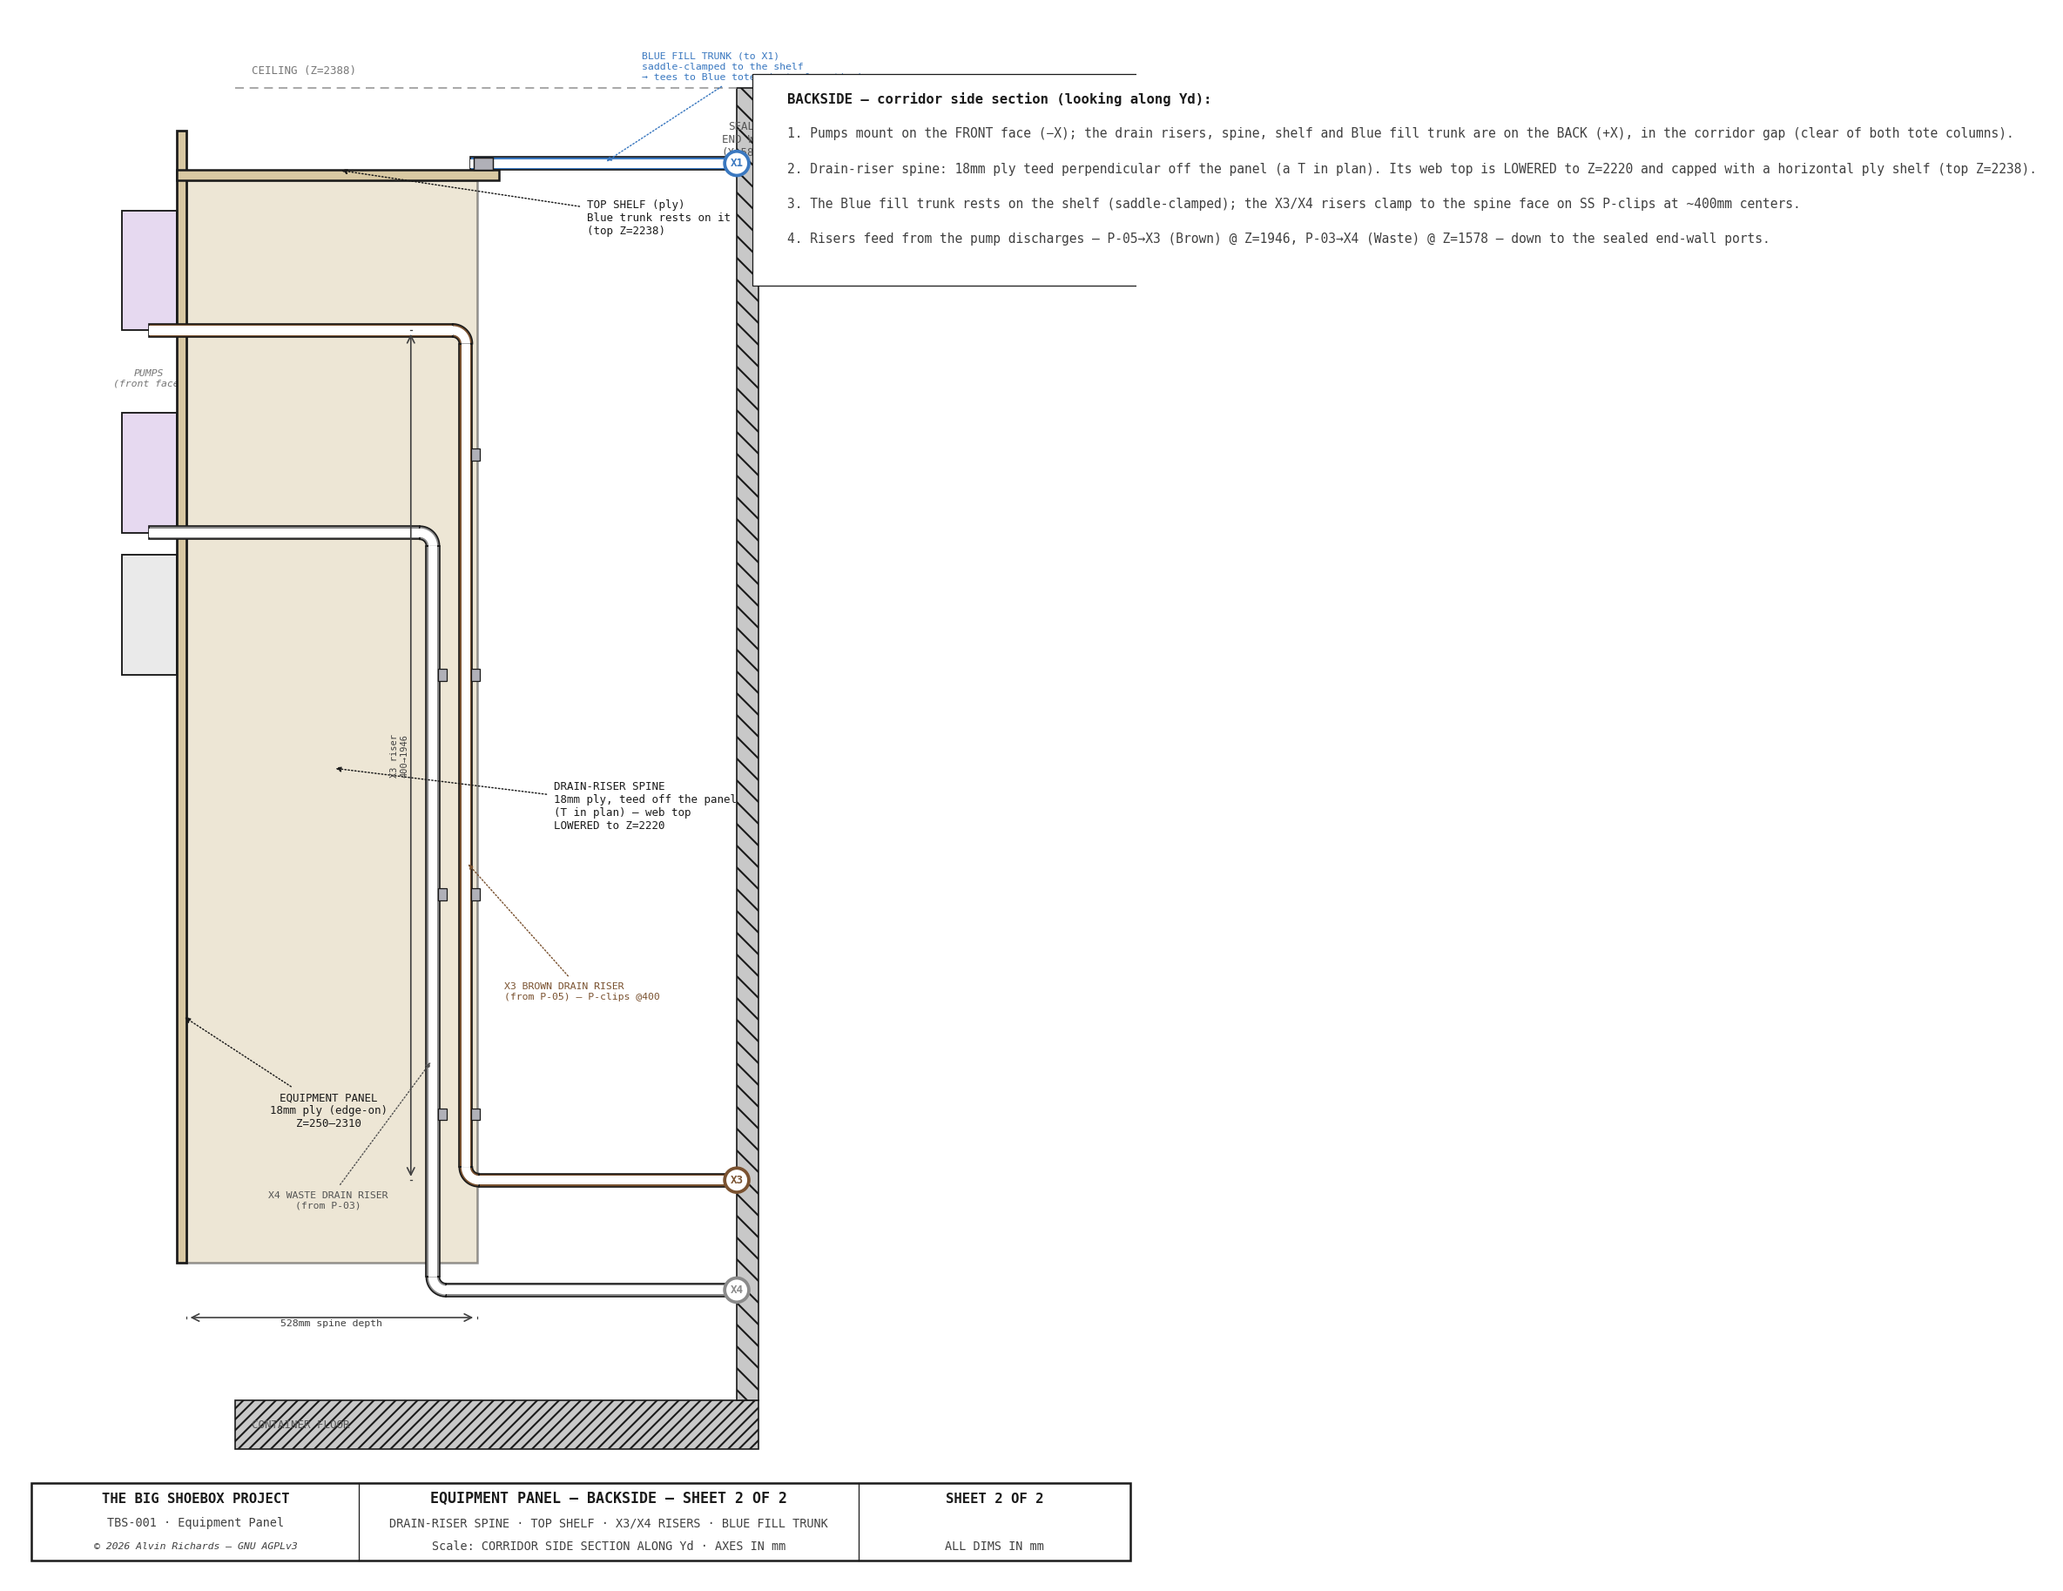
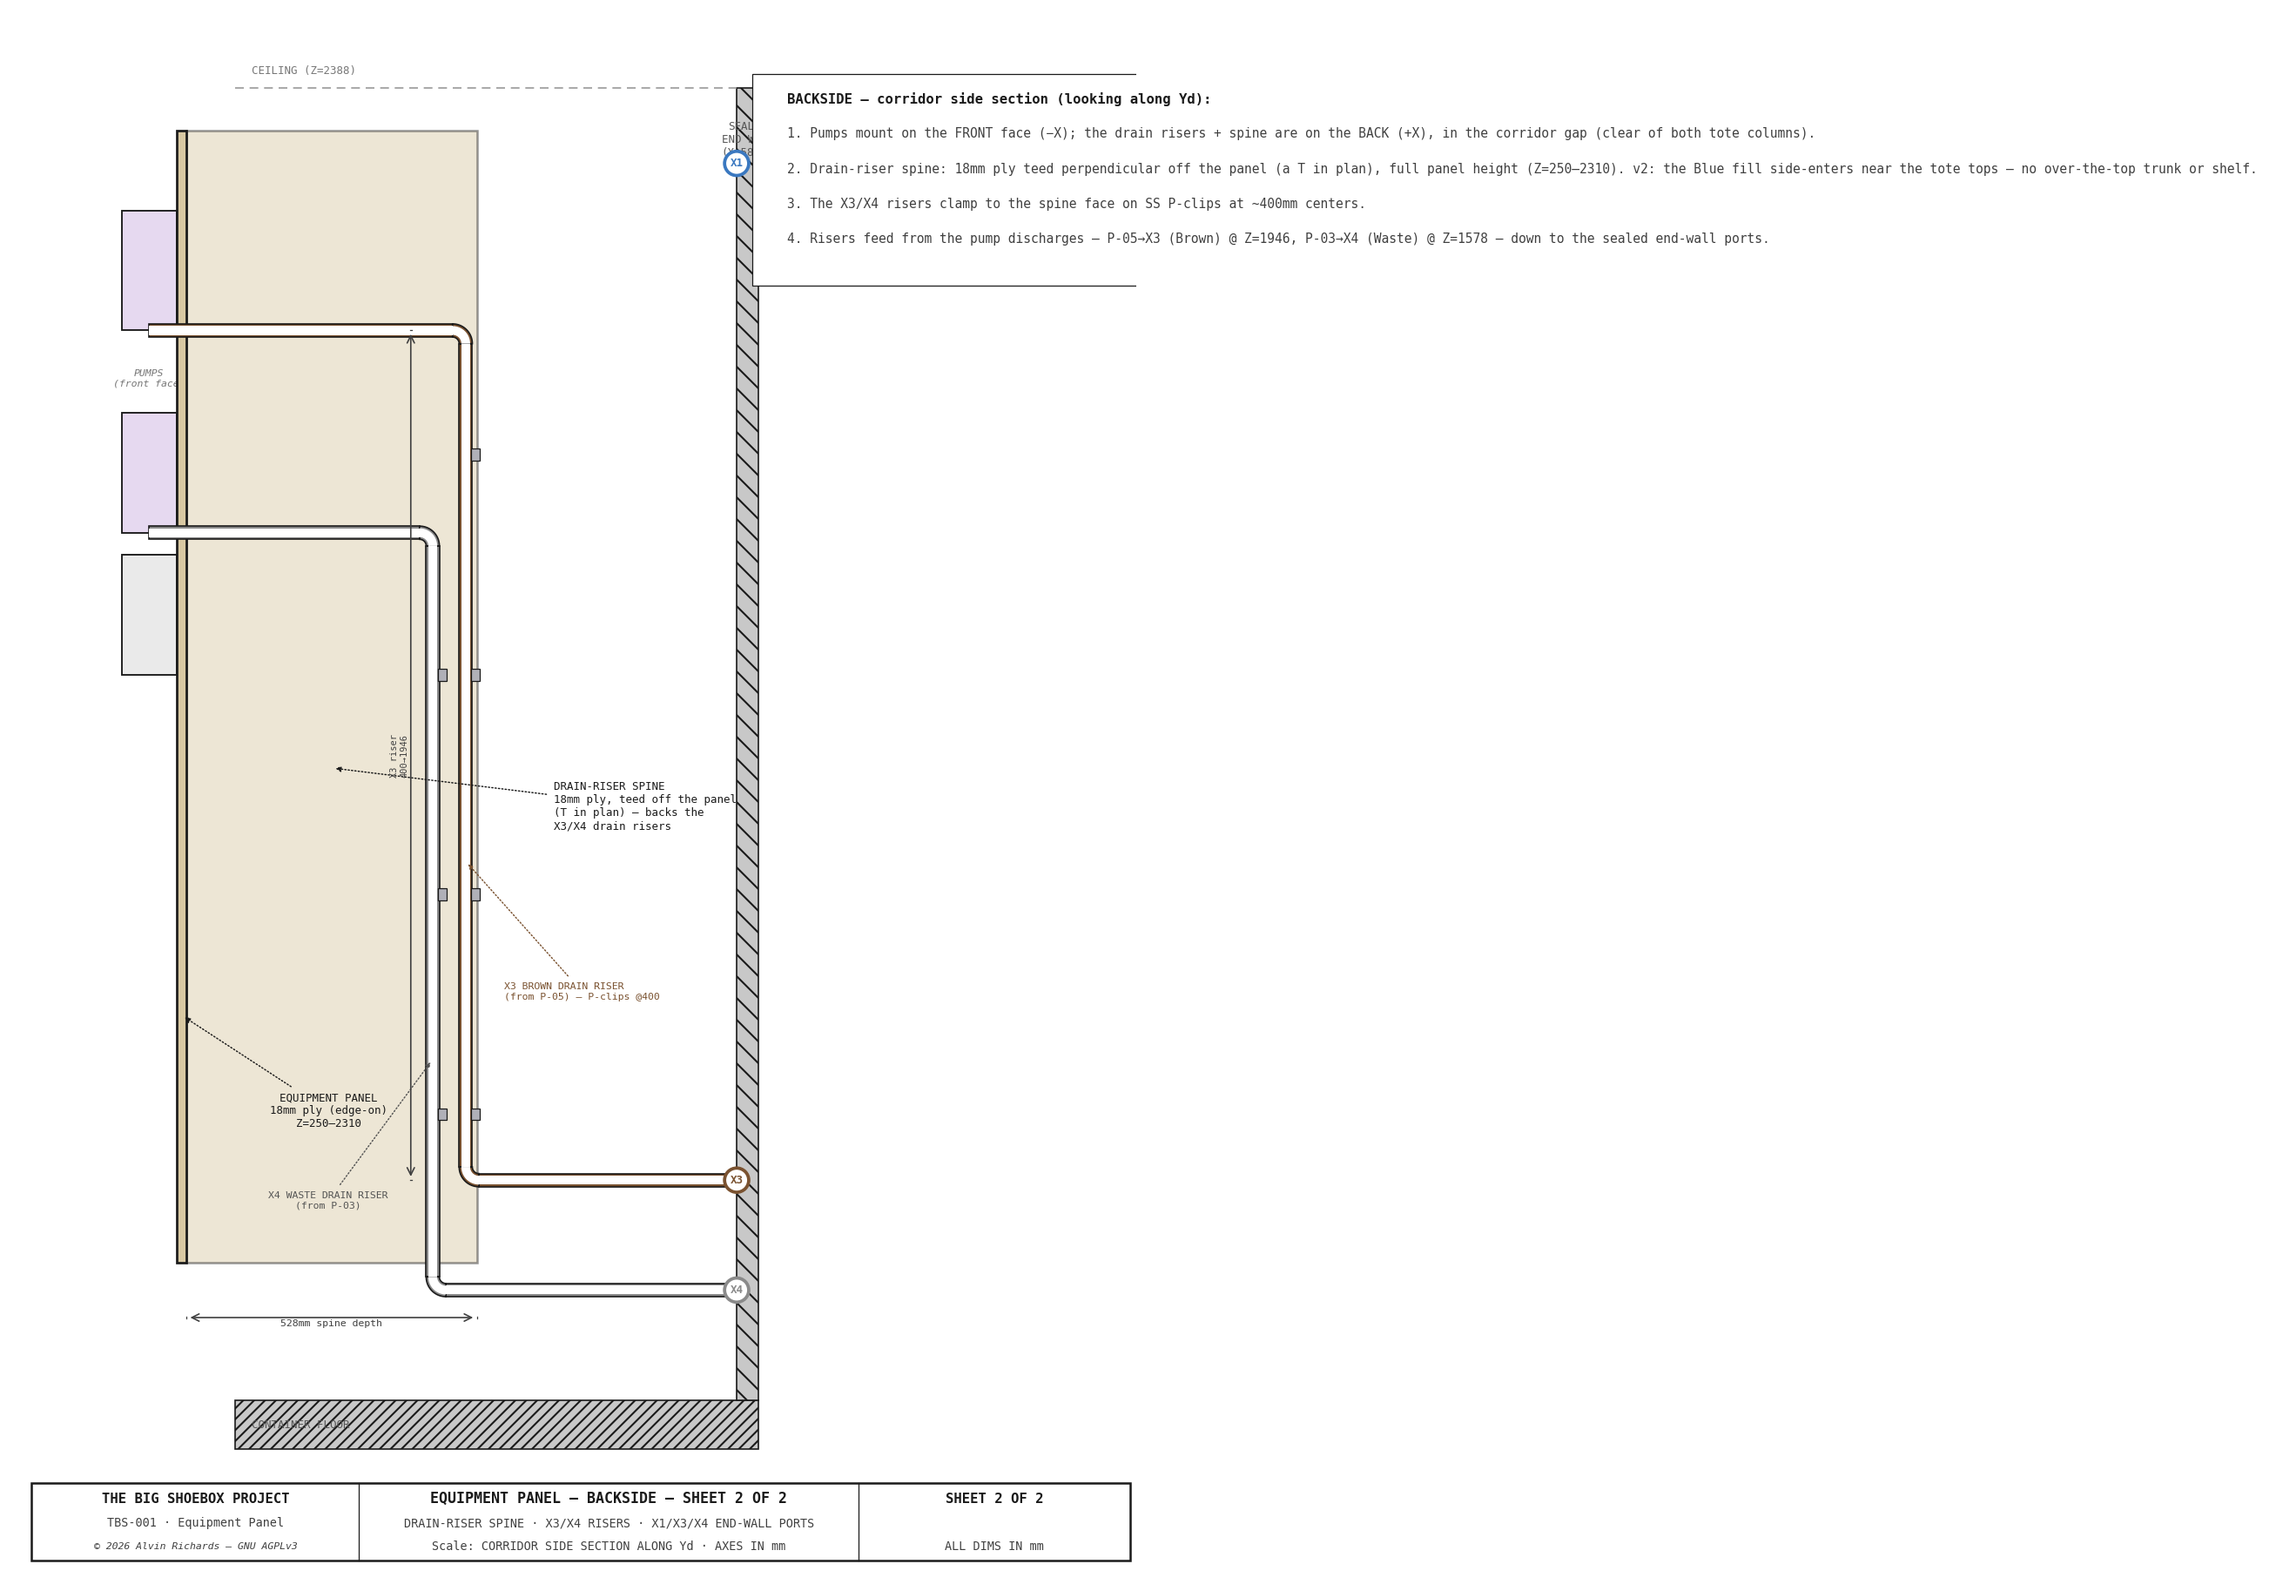
ibc-reconfig-v2: remove vestigial Blue-trunk shelf from the drain-riser spine
The drain-riser spine's top shelf + saddle clamp existed only to carry the OLD
over-the-top Blue fill trunk (Z2250), which v2 replaced with side-entry. Removed
the shelf, the Blue fill pipe clamp, and the trunk-support web-lowering; the spine
now rises to its natural full panel height (EQPANEL_Z_HI). Dropped the dead
IBC_H_600 dependency (overview import + blue_z calc). Kept the spine + flange +
X3/X4 riser P-clips. Same cleanup in the 2D panel-layout-back view.

Changed region(s): [[0.0312, 0.0312, 0.9371, 0.9984], [0.4686, 0.936, 0.4998, 0.9672]]

diff --git a/src/generators/generate_panel_layout.py b/src/generators/generate_panel_layout.py
@@ -1062,9 +1062,9 @@ print(f"Panel layout → {out}")
 # ═══════════════════════════════════════════════════════════════════════════
 #  SHEET 2 — BACKSIDE (corridor side section, looking along Yd)
 #  Shows what is mounted on the BACK of the panel (toward the sealed wall):
-#  the drain-riser spine + capped top shelf, the X3/X4 drain risers running
-#  from the P-05/P-03 discharges down to the end-wall ports, and the Blue fill
-#  trunk resting on the shelf. Absolute X/Z (mm) — matches the 3D model.
+#  the drain-riser spine and the X3/X4 drain risers running from the P-05/P-03
+#  discharges down to the end-wall ports. (v2: the over-the-top Blue fill trunk +
+#  its shelf are gone — the Blue fill now side-enters.) Absolute X/Z (mm) — matches the 3D model.
 # ═══════════════════════════════════════════════════════════════════════════
 from tbs_constants import (EQPANEL_X, EQPANEL_Z_LO, EQPANEL_Z_HI, EQPANEL_T,
                            C_LEN, C_HGT, EXT_DRAIN_3_H, EXT_DRAIN_H, EXT_FILL_H)
@@ -1079,12 +1079,8 @@ C_WALLB  = "#C8C8C8"
 PANX  = EQPANEL_X                 # 4874 — panel face (ibc-reconfig-v2: moved forward)
 PANX1 = EQPANEL_X + EQPANEL_T     # 4892 — panel rear
 SPX1  = 5420                      # spine rear
-SHX1  = 5460                      # shelf rear
 WALLX = C_LEN                     # 5893 — sealed end wall
 Z_BOT, Z_MID, Z_TOP = 1320, 1578, 1946          # pump rows
-SP_TOP = 2220                     # lowered spine web top
-SH_TOP = 2238                     # shelf top (Blue trunk underside)
-BLUE_Z = EXT_FILL_H               # 2250
 RX3, RX4 = 5400, 5340             # Brown / Waste riser X
 POD = 24                          # pipe OD (mm)
 
@@ -1136,23 +1132,12 @@ for zr, lbl, hot in [(Z_BOT, "P-01 /\nP-02", False),
 axb.text(PANX - 50, Z_TOP - 70, "PUMPS\n(front face)", fontsize=5.5, ha="center",
          va="top", color="#777", style="italic", **FB)
 
-# ── Drain-riser spine + lowered top + shelf ──────────────────────────────
-_rect(PANX1, EQPANEL_Z_LO, SPX1 - PANX1, SP_TOP - EQPANEL_Z_LO, C_PLYB, lw=1.2,
+# ── Drain-riser spine (full panel height) ────────────────────────────────
+_rect(PANX1, EQPANEL_Z_LO, SPX1 - PANX1, EQPANEL_Z_HI - EQPANEL_Z_LO, C_PLYB, lw=1.2,
       z0=4, alpha=0.45)
-_rect(PANX, SP_TOP, SHX1 - PANX, EQPANEL_T, C_PLYB, lw=1.2, z0=9)   # top shelf
 leader(axb, (PANX1 + SPX1) / 2, 1150, 5560, 1080,
-       "DRAIN-RISER SPINE\n18mm ply, teed off the panel\n(T in plan) — web top\nLOWERED to Z=2220",
+       "DRAIN-RISER SPINE\n18mm ply, teed off the panel\n(T in plan) — backs the\nX3/X4 drain risers",
        color=C_OUT, fs=6, ha="left", va="center", arrow_style="-|>", font=FB)
-leader(axb, (PANX + SHX1) / 2, SH_TOP, 5620, 2150,
-       "TOP SHELF (ply)\nBlue trunk rests on it\n(top Z=2238)", color=C_OUT, fs=6,
-       ha="left", va="center", arrow_style="-|>", font=FB)
-
-# ── Blue fill trunk on the shelf ─────────────────────────────────────────
-_pipe([5408, WALLX], [BLUE_Z, BLUE_Z], C_BLUEB)       # straight run to X1
-_rect(5414, SH_TOP, 36, 22, C_STEEL, lw=0.7, z0=10)   # saddle clamp
-leader(axb, 5650, BLUE_Z, 5720, 2400,
-       "BLUE FILL TRUNK (to X1)\nsaddle-clamped to the shelf\n→ tees to Blue totes (out of section)",
-       color=C_BLUEB, fs=5.5, ha="left", va="bottom", arrow_style="-|>", font=FB)
 
 # ── Drain risers: P-05→X3 (Brown), P-03→X4 (Waste) ───────────────────────
 # Each is one run: pump discharge stub → 90° elbow → riser down → 90° elbow →
@@ -1173,7 +1158,7 @@ leader(axb, RX4, 620, 5150, 380, "X4 WASTE DRAIN RISER\n(from P-03)",
        color="#555", fs=5.5, ha="center", va="top", arrow_style="-|>", font=FB)
 
 # ── End-wall ports ───────────────────────────────────────────────────────
-for z, lab, col in [(BLUE_Z, "X1", C_BLUEB), (EXT_DRAIN_3_H, "X3", C_BROWNB),
+for z, lab, col in [(EXT_FILL_H, "X1", C_BLUEB), (EXT_DRAIN_3_H, "X3", C_BROWNB),
                     (EXT_DRAIN_H, "X4", C_WASTEB)]:
     axb.add_patch(mpatches.Circle((WALLX, z), 22, facecolor="white",
                   edgecolor=col, lw=1.8, zorder=12))
@@ -1189,15 +1174,15 @@ draw_dim_h(axb, PANX1, SPX1, 150, f"{SPX1 - PANX1}mm spine depth", offset=4,
 # ── Notes (right margin) ─────────────────────────────────────────────────
 draw_notes(axb, [
     "BACKSIDE — corridor side section (looking along Yd):",
-    "1. Pumps mount on the FRONT face (−X); the drain risers, spine, shelf and Blue fill trunk are on the BACK (+X), in the corridor gap (clear of both tote columns).",
-    "2. Drain-riser spine: 18mm ply teed perpendicular off the panel (a T in plan). Its web top is LOWERED to Z=2220 and capped with a horizontal ply shelf (top Z=2238).",
-    "3. The Blue fill trunk rests on the shelf (saddle-clamped); the X3/X4 risers clamp to the spine face on SS P-clips at ~400mm centers.",
+    "1. Pumps mount on the FRONT face (−X); the drain risers + spine are on the BACK (+X), in the corridor gap (clear of both tote columns).",
+    "2. Drain-riser spine: 18mm ply teed perpendicular off the panel (a T in plan), full panel height (Z=250–2310). v2: the Blue fill side-enters near the tote tops — no over-the-top trunk or shelf.",
+    "3. The X3/X4 risers clamp to the spine face on SS P-clips at ~400mm centers.",
     "4. Risers feed from the pump discharges — P-05→X3 (Brown) @ Z=1946, P-03→X4 (Waste) @ Z=1578 — down to the sealed end-wall ports.",
 ], 5985, 2380, spacing=64, fs=7, ha="left", width=600, font=FB)
 
 title_block(axb, "SHEET 2 OF 2",
             drawing_title="EQUIPMENT PANEL — BACKSIDE",
-            subtitle="DRAIN-RISER SPINE · TOP SHELF · X3/X4 RISERS · BLUE FILL TRUNK",
+            subtitle="DRAIN-RISER SPINE · X3/X4 RISERS · X1/X3/X4 END-WALL PORTS",
             scale_note="CORRIDOR SIDE SECTION ALONG Yd · AXES IN mm",
             doc_id="TBS-001 · Equipment Panel",
             height=0.05)

diff --git a/src/models/generate_sketchup_model.py b/src/models/generate_sketchup_model.py
@@ -67,7 +67,7 @@ from tbs_constants import (
     FSKID_X, FSKID_YD, F1_Z, F2_Z, F3_Z,
     EQPANEL_X, EQPANEL_T, EQPANEL_Z_LO, EQPANEL_Z_HI,
     EQPANEL_YD, EQPANEL_YD_SPAN,
-    IBC_COL_X, IBC_W, IBC_D, IBC_H_600, IBC_H_1000, IBC_PALLET_H, IBC_BOTTLE_INSET,
+    IBC_COL_X, IBC_W, IBC_D, IBC_H_1000, IBC_PALLET_H, IBC_BOTTLE_INSET,
     BLUE_IBC_Y, BROWN_IBC_Y, IBC_FAR_Y, WASTE_IBC_Y,
     IBC_FRAME_RHS,
     IBC_FOOT_PLATE, IBC_FOOT_PLATE_T, IBC_FOOT_BOLT_PCD,
@@ -943,15 +943,13 @@ def equipment_panel():
     # 18mm marine-ply spine teed perpendicular off the panel (a T in plan), into
     # the corridor gap, so the X3/X4 drain risers (Brown @ X=5400, Waste @ X=5340,
     # both Yd=col_r) clamp to it instead of free-hanging.  Sits in the clear
-    # corridor (Yd 1046-1316) — no tote contact.  The top is LOWERED and capped
-    # with a horizontal ply shelf that the Blue fill trunk rests on (supported
-    # at the T) rather than the spine standing proud past the pipe.
+    # corridor (Yd 1046-1316) — no tote contact.  Rises to the full panel height
+    # (v2: the over-the-top Blue fill trunk this spine used to carry is gone — the
+    # Blue fill now SIDE-ENTERS near the top, so no shelf/saddle is needed).
     sp_t  = EQPANEL_T                              # 18mm ply
     sp_x0, sp_x1 = face_x, 5420                     # butts the panel rear → past the X3 riser
     sp_y  = col_r - 30                              # spine board Yd (near-face just off the risers)
-    blue_z   = 2 * IBC_H_600 + 230                  # 2250 — Blue fill trunk centerline (overZ)
-    cap_top  = blue_z - 12                          # 2238 — shelf top = fill-pipe underside (pr=12)
-    spine_top = cap_top - sp_t                      # 2220 — lowered web top (was EQPANEL_Z_HI=2260)
+    spine_top = EQPANEL_Z_HI                        # 2310 — full panel height
     parts.append(ruby_box("Drain-riser spine (ply)", sp_x0, sp_y, EQPANEL_Z_LO,
                           sp_x1 - sp_x0, sp_t, spine_top - EQPANEL_Z_LO,
                           color=C_PLY))
@@ -959,15 +957,6 @@ def equipment_panel():
     parts.append(ruby_box("Drain-riser spine flange (ply)", sp_x1 - sp_t,
                           col_r - 27, EQPANEL_Z_LO, sp_t, 54,
                           spine_top - EQPANEL_Z_LO, color=C_PLY))
-    # Top shelf — horizontal ply cap sitting on the lowered web, cantilevering
-    # toward the Blue trunk (Yd≈1181) so the fill pipe is supported at the T.
-    cap_y0 = 1160                                   # reaches under the Blue trunk
-    parts.append(ruby_box("Drain-riser spine top shelf (ply)", sp_x0, cap_y0,
-                          spine_top, sp_x1 - sp_x0 + 40, (sp_y + sp_t) - cap_y0,
-                          sp_t, color=C_PLY))
-    # Saddle clamp holding the Blue fill trunk down onto the shelf.
-    parts.append(ruby_box("Blue fill pipe clamp", 5420, 1181 - 16, cap_top,
-                          36, 32, 20, color=C_STEEL))
     # SS pipe clamps (P-clips) holding each riser to the spine face, ~400mm centers.
     clamp_face = sp_y + sp_t                        # spine face the pipes sit against
     for rx, ztop in ((5340, 1578), (5400, 1946)):   # X4 Waste, X3 Brown risers

diff --git a/src/models/overview.rb b/src/models/overview.rb
@@ -7087,7 +7087,7 @@ end
   grp.name = "Drain-riser spine (ply)"
   face = grp.entities.add_face([4874.mm,1223.mm,250.mm], [5420.mm,1223.mm,250.mm], [5420.mm,1241.mm,250.mm], [4874.mm,1241.mm,250.mm])
   face.reverse! if face.normal.z < 0
-  face.pushpull(1970.mm)
+  face.pushpull(2060.mm)
   mat = model.materials["Equipment Panel (ply)"] || model.materials.add("Equipment Panel (ply)")
   mat.color = Sketchup::Color.new(156, 123, 77)
   mat.alpha = 1.0
@@ -7098,31 +7098,9 @@ end
   grp.name = "Drain-riser spine flange (ply)"
   face = grp.entities.add_face([5402.mm,1226.mm,250.mm], [5420.mm,1226.mm,250.mm], [5420.mm,1280.mm,250.mm], [5402.mm,1280.mm,250.mm])
   face.reverse! if face.normal.z < 0
-  face.pushpull(1970.mm)
+  face.pushpull(2060.mm)
   mat = model.materials["Equipment Panel (ply)"] || model.materials.add("Equipment Panel (ply)")
   mat.color = Sketchup::Color.new(156, 123, 77)
-  mat.alpha = 1.0
-  grp.material = mat
-
-  # Drain-riser spine top shelf (ply)
-  grp = ents.add_group
-  grp.name = "Drain-riser spine top shelf (ply)"
-  face = grp.entities.add_face([4874.mm,1160.mm,2220.mm], [5460.mm,1160.mm,2220.mm], [5460.mm,1241.mm,2220.mm], [4874.mm,1241.mm,2220.mm])
-  face.reverse! if face.normal.z < 0
-  face.pushpull(18.mm)
-  mat = model.materials["Equipment Panel (ply)"] || model.materials.add("Equipment Panel (ply)")
-  mat.color = Sketchup::Color.new(156, 123, 77)
-  mat.alpha = 1.0
-  grp.material = mat
-
-  # Blue fill pipe clamp
-  grp = ents.add_group
-  grp.name = "Blue fill pipe clamp"
-  face = grp.entities.add_face([5420.mm,1165.mm,2238.mm], [5456.mm,1165.mm,2238.mm], [5456.mm,1197.mm,2238.mm], [5420.mm,1197.mm,2238.mm])
-  face.reverse! if face.normal.z < 0
-  face.pushpull(20.mm)
-  mat = model.materials["RWk Long beam X4329 upper"] || model.materials.add("RWk Long beam X4329 upper")
-  mat.color = Sketchup::Color.new(176, 176, 184)
   mat.alpha = 1.0
   grp.material = mat
 
